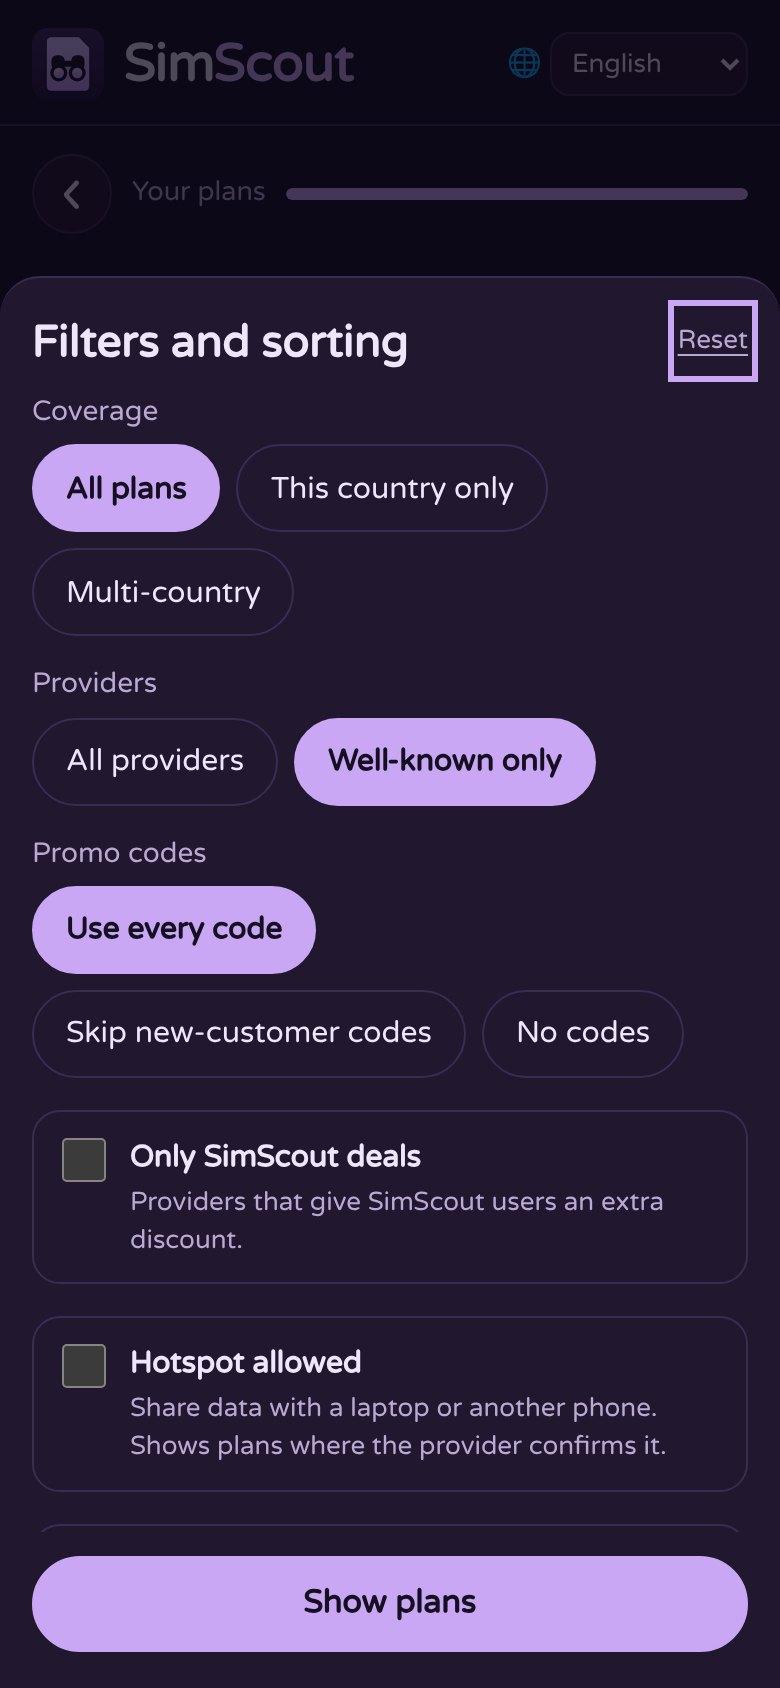
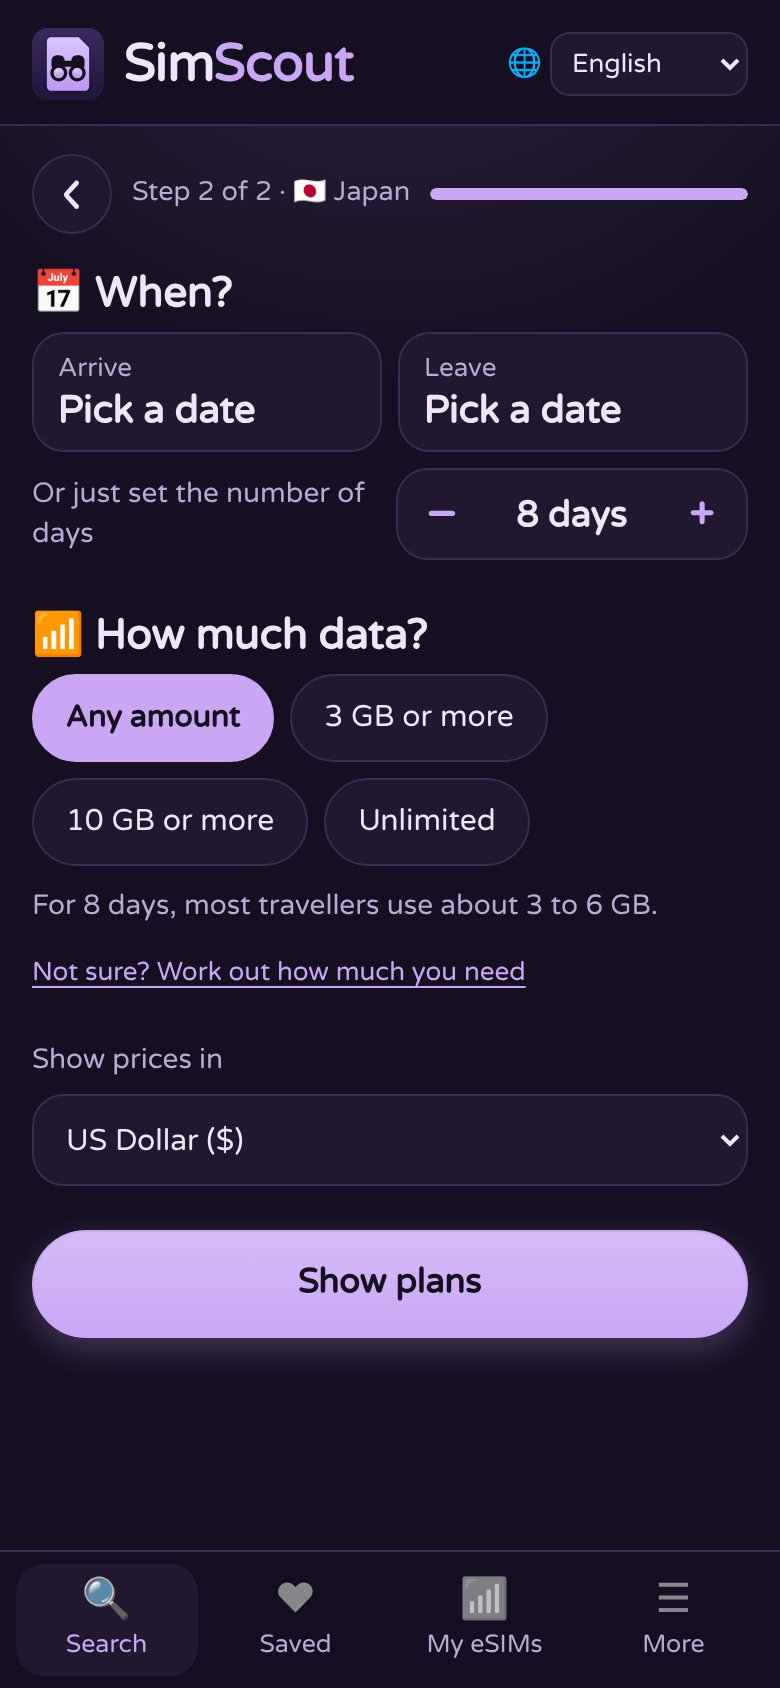
Home: new app screenshots, two-step How it works, city search copy, multi-country trips row
Claude-Session: https://claude.ai/code/session_01QEkbQ2YhKg9JNYqShC2a77

diff --git a/index.html b/index.html
@@ -4,7 +4,7 @@
 <meta charset="utf-8">
 <meta name="viewport" content="width=device-width, initial-scale=1">
 <title>SimScout: the cheapest eSIM for your exact trip</title>
-<meta name="description" content="SimScout compares thousands of travel eSIM plans from trusted providers for your exact trip dates, with every slowdown and data limit spelled out. Free.">
+<meta name="description" content="SimScout compares tens of thousands of travel eSIM plans from 12+ providers for your exact trip dates, with every slowdown and data limit spelled out. Free.">
 <meta name="theme-color" content="#160F22" media="(prefers-color-scheme: dark)">
 <meta name="theme-color" content="#F1EAFB" media="(prefers-color-scheme: light)">
 <style>
@@ -91,6 +91,7 @@ footer .wrap{display:flex;flex-wrap:wrap;justify-content:space-between;gap:12px}
 @media(max-width:560px){.lead{font-size:17px}.search input{font-size:17px;min-height:56px}.nums{gap:20px}.nums b{font-size:24px}}
 @media (prefers-color-scheme:light){:root{--bg:#F1EAFB;--card:#FFFFFF;--card2:#F8F3FF;--line:#DDD0F2;--ink:#24163D;--muted:#685786;--acc:#7A4FC9;--on-acc:#FFFFFF;--gold:#B8860B;--heart:#E0457F;color-scheme:light}
 }
+.multih{margin:28px 0 12px;font-size:18px}
 </style>
 <link rel="canonical" href="https://simscout.github.io/">
 <meta property="og:title" content="SimScout: the cheapest eSIM for your exact trip">
@@ -111,7 +112,7 @@ footer .wrap{display:flex;flex-wrap:wrap;justify-content:space-between;gap:12px}
   <div class="hero">
     <div>
       <h1>Scout the <span>cheapest data</span> for your trip.</h1>
-      <p class="lead">Compare thousands of travel eSIM plans from trusted providers for your exact dates, with every slowdown spelled out.</p>
+      <p class="lead">Compare tens of thousands of travel eSIM plans from 12+ providers for your exact dates, with every slowdown spelled out.</p>
       <form class="search" role="search" action="app/" id="sform" autocomplete="off">
         <span class="mg" aria-hidden="true">🔎</span>
         <input id="q" name="q" type="search" placeholder="Where are you going?" aria-label="Where are you going?" aria-autocomplete="list" aria-controls="sugg" aria-expanded="false">
@@ -121,7 +122,7 @@ footer .wrap{display:flex;flex-wrap:wrap;justify-content:space-between;gap:12px}
       <div class="cta"><a class="btn" href="app/">Plan by exact dates</a><span class="soon">Free, no sign-up. Android app coming soon to Google Play.</span></div>
       <ul class="points"><li>230+ destinations</li><li>Local and multi-country plans</li><li>Prices refreshed daily</li><li>12 currencies</li></ul>
     </div>
-    <div class="phone"><img src="shot-search.jpg" alt="SimScout results for a 10-day trip to Japan: plans from Stellar eSIM and ASIMGO with prices, 5G, hotspot and a SimScout discount code" width="390" height="844"></div>
+    <div class="phone"><img src="shot-search.jpg" alt="SimScout results for a 10-day trip to Japan: 57 plans, with the cheapest, best value and most data picks and a SimScout discount code" width="390" height="844"></div>
   </div>
 </main>
 
@@ -144,19 +145,19 @@ footer .wrap{display:flex;flex-wrap:wrap;justify-content:space-between;gap:12px}
 </div></section>
 
 <section id="how"><div class="wrap split">
-  <div class="phone"><img src="shot-mix.jpg" alt="SimScout filters: promo codes, Mix your own ranking and currency" width="390" height="844" loading="lazy"></div>
+  <div class="phone"><img src="shot-mix.jpg" alt="SimScout step 2: trip dates or number of days, how much data, and a hint for how much most travellers use" width="390" height="844" loading="lazy"></div>
   <div>
     <h2>How it works</h2>
-    <p class="sub">Three taps from "I'm going to Italy" to the plan you'll buy.</p>
+    <p class="sub">Two quick steps from “I’m going to Italy” to the plan you’ll buy.</p>
     <ol class="steps">
-      <li><b>Pick the country and your dates</b><span>Type a country, then tap the day you land and the day you leave.</span></li>
-      <li><b>Say how much data you need</b><span>Any amount, 3 GB, 10 GB or unlimited, local or multi-country plans.</span></li>
+      <li><b>Say where you’re going</b><span>A country, a city like Tokyo or Bangkok, or a whole trip: “Italy and Greece 10 days”.</span></li>
+      <li><b>Pick your dates and how much data</b><span>Tap the day you land and the day you leave, then any amount, 3 GB, 10 GB or unlimited. SimScout tells you what most travellers use.</span></li>
       <li><b>Compare and buy from the provider</b><span>SimScout ranks the plans; tap one to open the provider's own site and buy there.</span></li>
     </ol>
   </div>
 </div></section>
 
-<section id="destinations"><div class="wrap"><h2>Popular destinations</h2><p class="sub">Today’s cheapest plan with at least 1 GB for a week, refreshed daily.</p><div class="destgrid" id="dgrid"><a href="esim/greece/" data-c="GR"><span class="fl" aria-hidden="true">🇬🇷</span><span class="tx">Greece<span class="pr"></span></span></a><a href="esim/italy/" data-c="IT"><span class="fl" aria-hidden="true">🇮🇹</span><span class="tx">Italy<span class="pr"></span></span></a><a href="esim/spain/" data-c="ES"><span class="fl" aria-hidden="true">🇪🇸</span><span class="tx">Spain<span class="pr"></span></span></a><a href="esim/france/" data-c="FR"><span class="fl" aria-hidden="true">🇫🇷</span><span class="tx">France<span class="pr"></span></span></a><a href="esim/united-kingdom/" data-c="GB"><span class="fl" aria-hidden="true">🇬🇧</span><span class="tx">United Kingdom<span class="pr"></span></span></a><a href="esim/united-states/" data-c="US"><span class="fl" aria-hidden="true">🇺🇸</span><span class="tx">United States<span class="pr"></span></span></a><a href="esim/japan/" data-c="JP"><span class="fl" aria-hidden="true">🇯🇵</span><span class="tx">Japan<span class="pr"></span></span></a><a href="esim/thailand/" data-c="TH"><span class="fl" aria-hidden="true">🇹🇭</span><span class="tx">Thailand<span class="pr"></span></span></a><a href="esim/turkey/" data-c="TR"><span class="fl" aria-hidden="true">🇹🇷</span><span class="tx">Turkey<span class="pr"></span></span></a><a href="esim/cyprus/" data-c="CY"><span class="fl" aria-hidden="true">🇨🇾</span><span class="tx">Cyprus<span class="pr"></span></span></a><a href="esim/germany/" data-c="DE"><span class="fl" aria-hidden="true">🇩🇪</span><span class="tx">Germany<span class="pr"></span></span></a><a href="esim/egypt/" data-c="EG"><span class="fl" aria-hidden="true">🇪🇬</span><span class="tx">Egypt<span class="pr"></span></span></a></div><p class="destall"><a href="esim/">All destinations →</a> · <a href="he/esim/" hreflang="he" lang="he">כל היעדים בעברית</a></p></div></section>
+<section id="destinations"><div class="wrap"><h2>Popular destinations</h2><p class="sub">Today’s cheapest plan with at least 1 GB for a week, refreshed daily.</p><div class="destgrid" id="dgrid"><a href="esim/greece/" data-c="GR"><span class="fl" aria-hidden="true">🇬🇷</span><span class="tx">Greece<span class="pr"></span></span></a><a href="esim/italy/" data-c="IT"><span class="fl" aria-hidden="true">🇮🇹</span><span class="tx">Italy<span class="pr"></span></span></a><a href="esim/spain/" data-c="ES"><span class="fl" aria-hidden="true">🇪🇸</span><span class="tx">Spain<span class="pr"></span></span></a><a href="esim/france/" data-c="FR"><span class="fl" aria-hidden="true">🇫🇷</span><span class="tx">France<span class="pr"></span></span></a><a href="esim/united-kingdom/" data-c="GB"><span class="fl" aria-hidden="true">🇬🇧</span><span class="tx">United Kingdom<span class="pr"></span></span></a><a href="esim/united-states/" data-c="US"><span class="fl" aria-hidden="true">🇺🇸</span><span class="tx">United States<span class="pr"></span></span></a><a href="esim/japan/" data-c="JP"><span class="fl" aria-hidden="true">🇯🇵</span><span class="tx">Japan<span class="pr"></span></span></a><a href="esim/thailand/" data-c="TH"><span class="fl" aria-hidden="true">🇹🇭</span><span class="tx">Thailand<span class="pr"></span></span></a><a href="esim/turkey/" data-c="TR"><span class="fl" aria-hidden="true">🇹🇷</span><span class="tx">Turkey<span class="pr"></span></span></a><a href="esim/cyprus/" data-c="CY"><span class="fl" aria-hidden="true">🇨🇾</span><span class="tx">Cyprus<span class="pr"></span></span></a><a href="esim/germany/" data-c="DE"><span class="fl" aria-hidden="true">🇩🇪</span><span class="tx">Germany<span class="pr"></span></span></a><a href="esim/egypt/" data-c="EG"><span class="fl" aria-hidden="true">🇪🇬</span><span class="tx">Egypt<span class="pr"></span></span></a></div><h3 class="multih">Multi-country trips</h3><div class="destgrid"><a href="esim/europe/"><span class="fl" aria-hidden="true">🇪🇺</span><span class="tx">Europe</span></a><a href="esim/balkans/"><span class="fl" aria-hidden="true">🏔</span><span class="tx">The Balkans</span></a><a href="esim/southeast-asia/"><span class="fl" aria-hidden="true">🌴</span><span class="tx">Southeast Asia</span></a><a href="esim/usa-canada/"><span class="fl" aria-hidden="true">🇺🇸</span><span class="tx">USA + Canada</span></a><a href="esim/east-asia/"><span class="fl" aria-hidden="true">🏯</span><span class="tx">Japan, Korea, Taiwan, HK</span></a><a href="esim/global/"><span class="fl" aria-hidden="true">🌍</span><span class="tx">Around the world</span></a></div><p class="destall"><a href="esim/">All destinations →</a> · <a href="he/esim/" hreflang="he" lang="he">כל היעדים בעברית</a></p></div></section>
 
 <section id="support"><div class="wrap supportbox">
   <h2>Like SimScout? Help us grow</h2>
